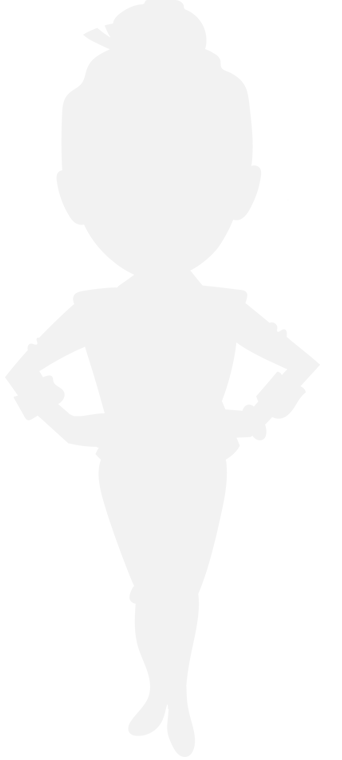
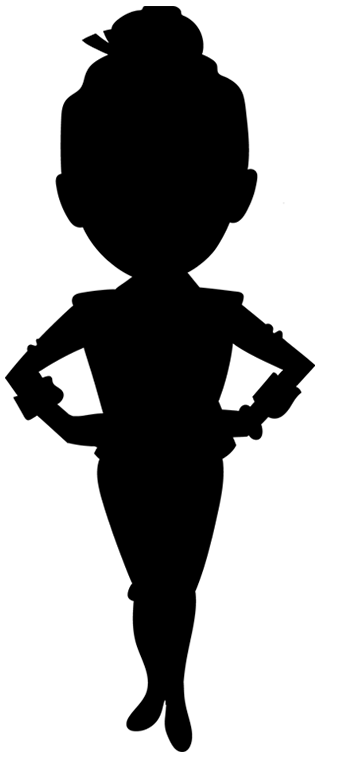
Add placeholder for Shannon

diff --git a/src/people/index.html b/src/people/index.html
@@ -221,7 +221,7 @@ menuorder: 4
       <div id="person-arie" class="person-wrap js-iso-element">
         <a href="#" class="person js-show-bio">
           <div class="loader icon-spin1"></div>
-          <img class="person-image" src="{{ "/img/people/no-image-ill.png " | prepend: site.baseurl }}" alt="Arie Van Der Poel" />
+          <img class="person-image" src="{{ "/img/people/placeholder-male.png " | prepend: site.baseurl }}" alt="Arie Van Der Poel" />
           <span class="burst-wrap scale-in">
             <span class="burst-text fancy-pants-font lowercase">Bio</span>
             <img class="burst bio-rotate" src="{{ "/img/people/starburst.png " | prepend: site.baseurl }}" alt="" />
@@ -1131,6 +1131,47 @@ menuorder: 4
       </div>
       <!-- .person-wrap -->
 
+      <!-- Shannon -->
+      <div id="person-shannon" class="person-wrap js-iso-element">
+        <a href="#" class="person js-show-bio">
+          <div class="loader icon-spin1"></div>
+          <img class="person-image" src="{{ "/img/people/placeholder-female.png " | prepend: site.baseurl }}" alt="Shannon Tamati" />
+          <span class="burst-wrap scale-in">
+            <span class="burst-text fancy-pants-font lowercase">Bio</span>
+            <img class="burst bio-rotate" src="{{ "/img/people/starburst.png " | prepend: site.baseurl }}" alt="" />
+            <img class="burst-shadow bio-rotate" src="{{ "/img/people/starburst-shadow.png " | prepend: site.baseurl }}" alt="" />
+          </span>
+        </a>
+        <div class="bio-wrap">
+          <div class="bio-inner">
+            <div class="faux-table">
+              <div class="faux-table-cell">
+                <div class="bio-head">
+                  <h2 class="bio-heading">Shannon Tamati</h2>
+                  <h3 class="bio-sub">Team Support and Admin</h3>
+                  <span class="linkedin-container">
+                    <a href="https://www.linkedin.com/in/shannon-h-2992671b2/" class="linkedin-link" target="_blank">
+                      <img src="{{ "/img/linkedin-logo.png " | prepend: site.baseurl }}" alt="Linkedin logo" class="linkedin-img">
+                    </a>
+                  </span>
+                  <!-- <div class="js-image-fill bio-real-image">
+                    <img src="{{ "/img/people/real-andrew.jpg" | prepend: site.baseurl }}" alt="Shannon Tamati" />
+                  </div> -->
+                </div>
+                <div class="bio-body">
+                  <p>Bio coming soon!</p>
+                  <!-- <div class="fancy-pants-font js-blog-link" data-blog-link="/author/shannon"></div> -->
+                </div>
+              </div>
+            </div>
+          </div>
+          <!-- .bio-inner -->
+        </div>
+        <!-- .bio-wrap -->
+        <h3 class="person-name-hover">Shannon</h3>
+      </div>
+      <!-- .person-wrap -->
+
       <!-- Sharmaine -->
       <div id="person-sharmaine" class="person-wrap js-iso-element">
         <a href="#" class="person js-show-bio">
@@ -1217,7 +1258,7 @@ menuorder: 4
       <div id="person-steve-f" class="person-wrap js-iso-element">
         <a href="#" class="person js-show-bio">
           <div class="loader icon-spin1"></div>
-          <img class="person-image" src="{{ "/img/people/no-image-ill.png " | prepend: site.baseurl }}" alt="Steve Foster" />
+          <img class="person-image" src="{{ "/img/people/placeholder-male.png " | prepend: site.baseurl }}" alt="Steve Foster" />
           <span class="burst-wrap scale-in">
             <span class="burst-text fancy-pants-font lowercase">Bio</span>
             <img class="burst bio-rotate" src="{{ "/img/people/starburst.png " | prepend: site.baseurl }}" alt="" />
